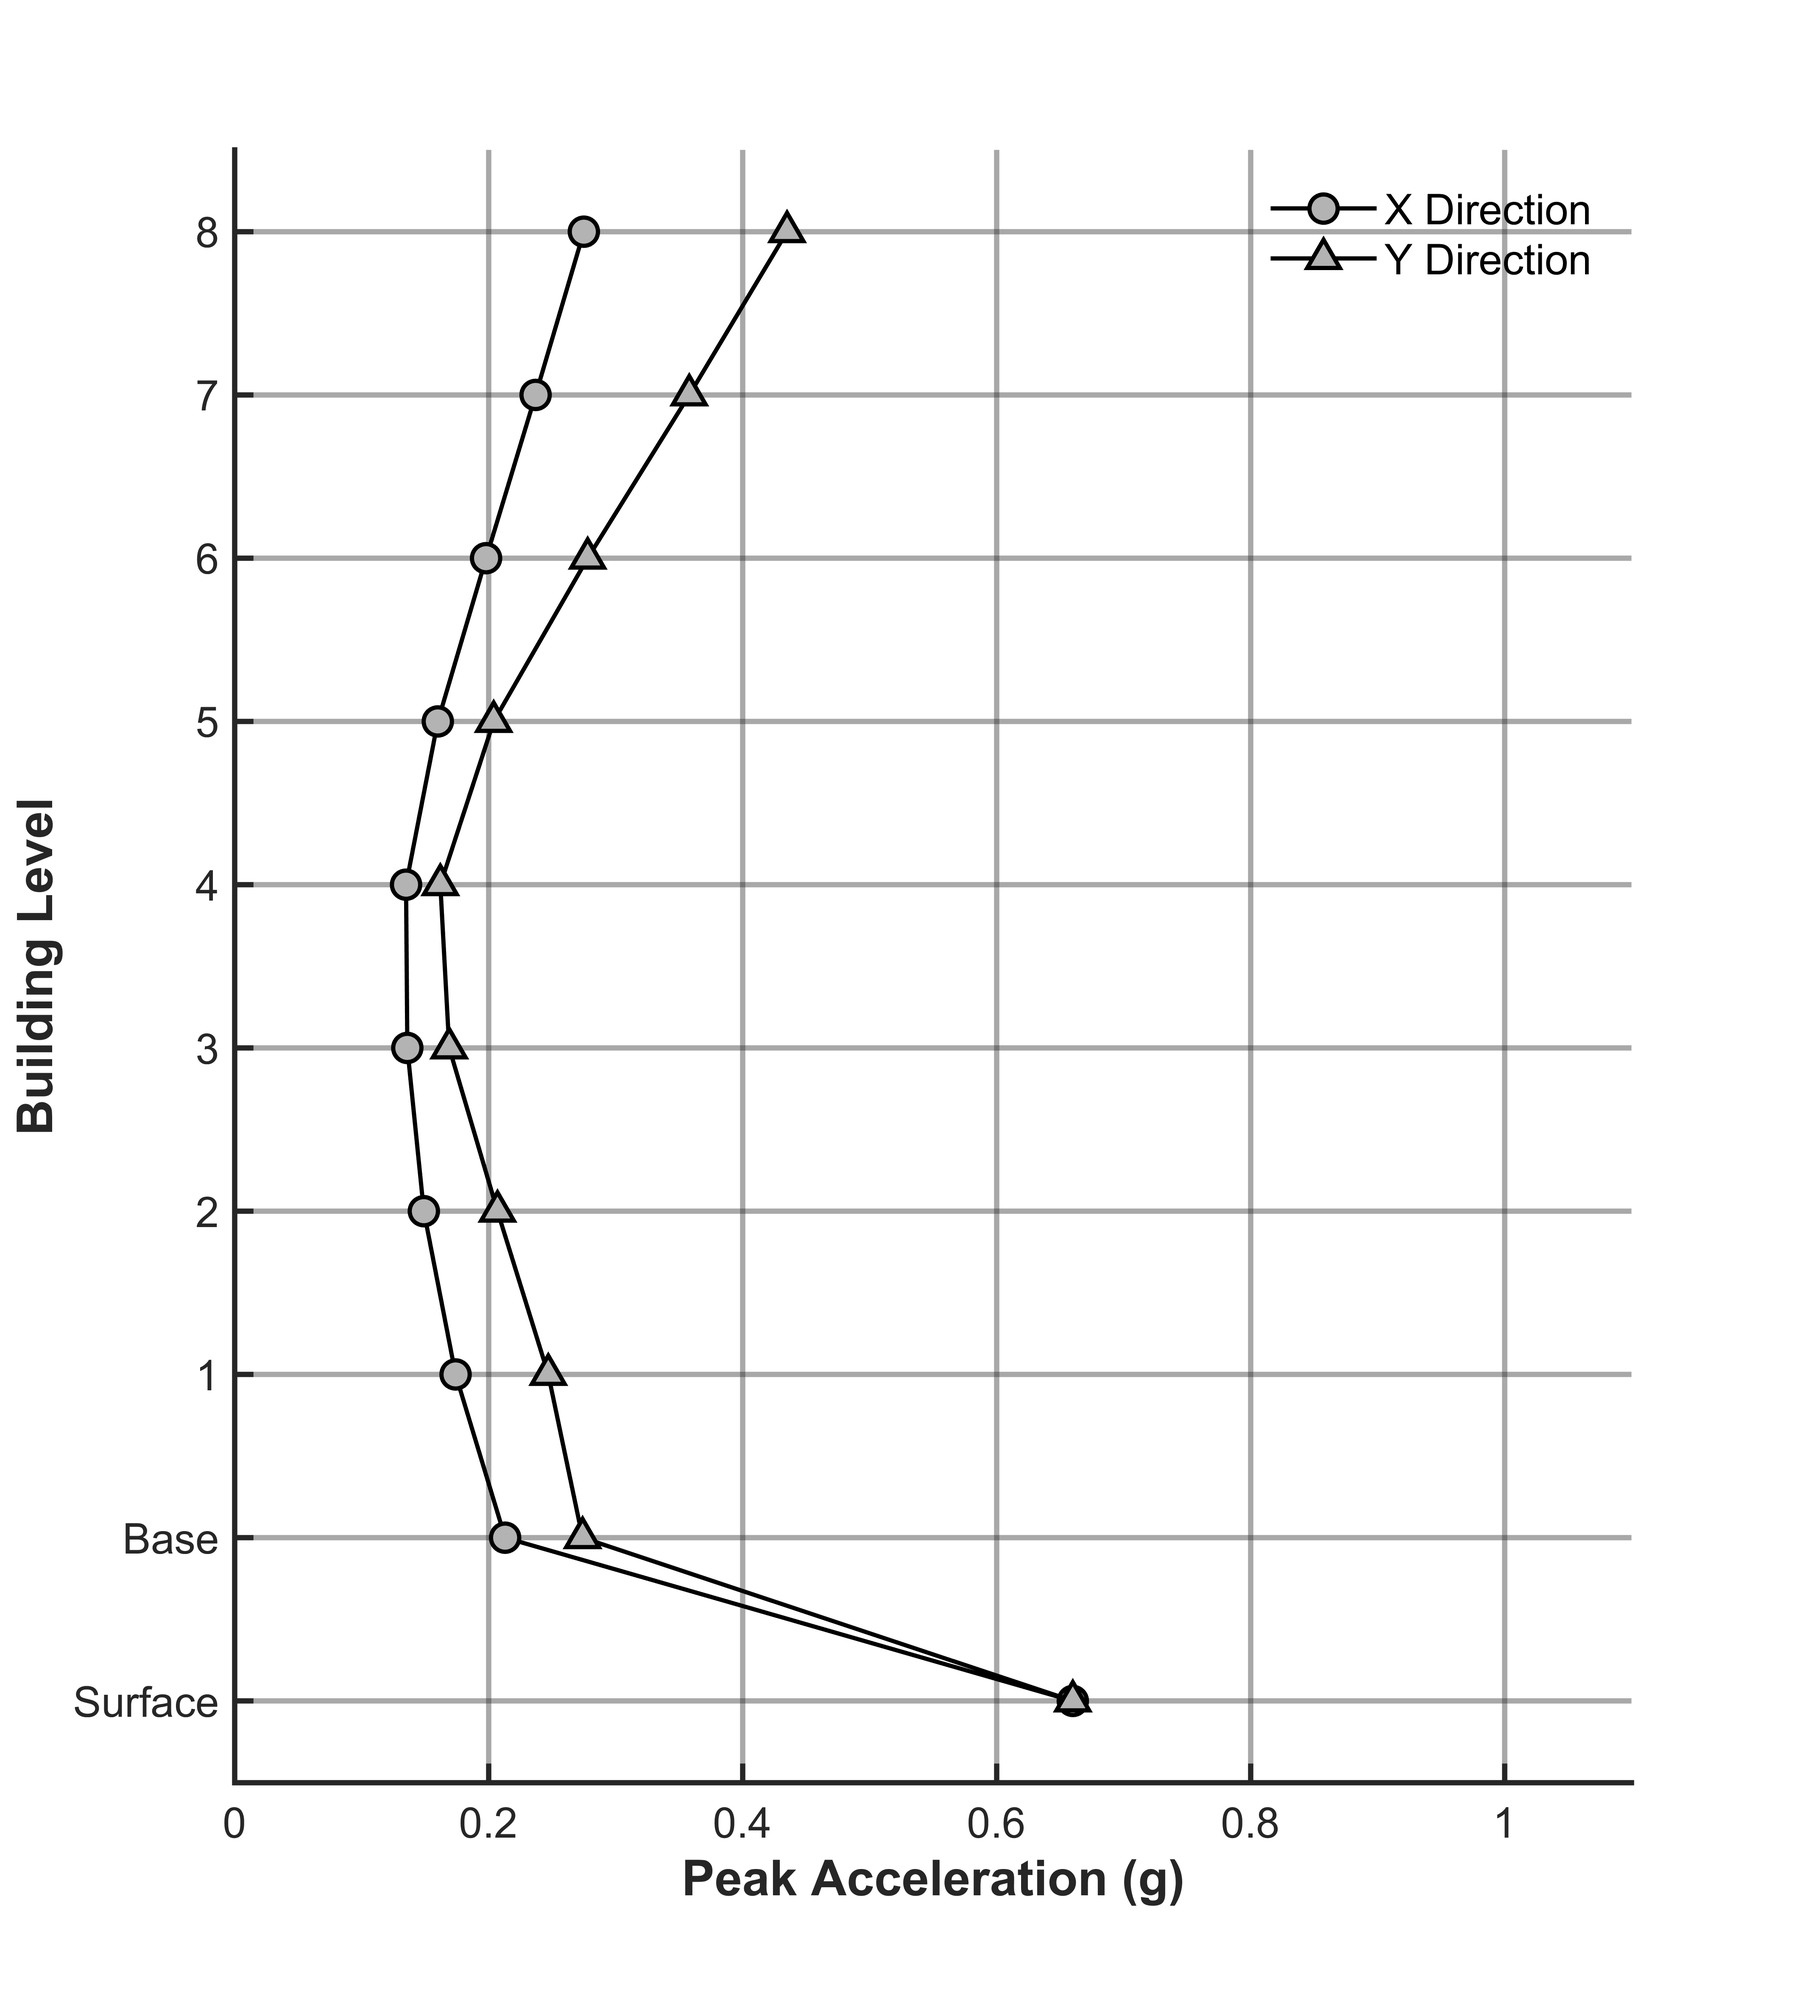
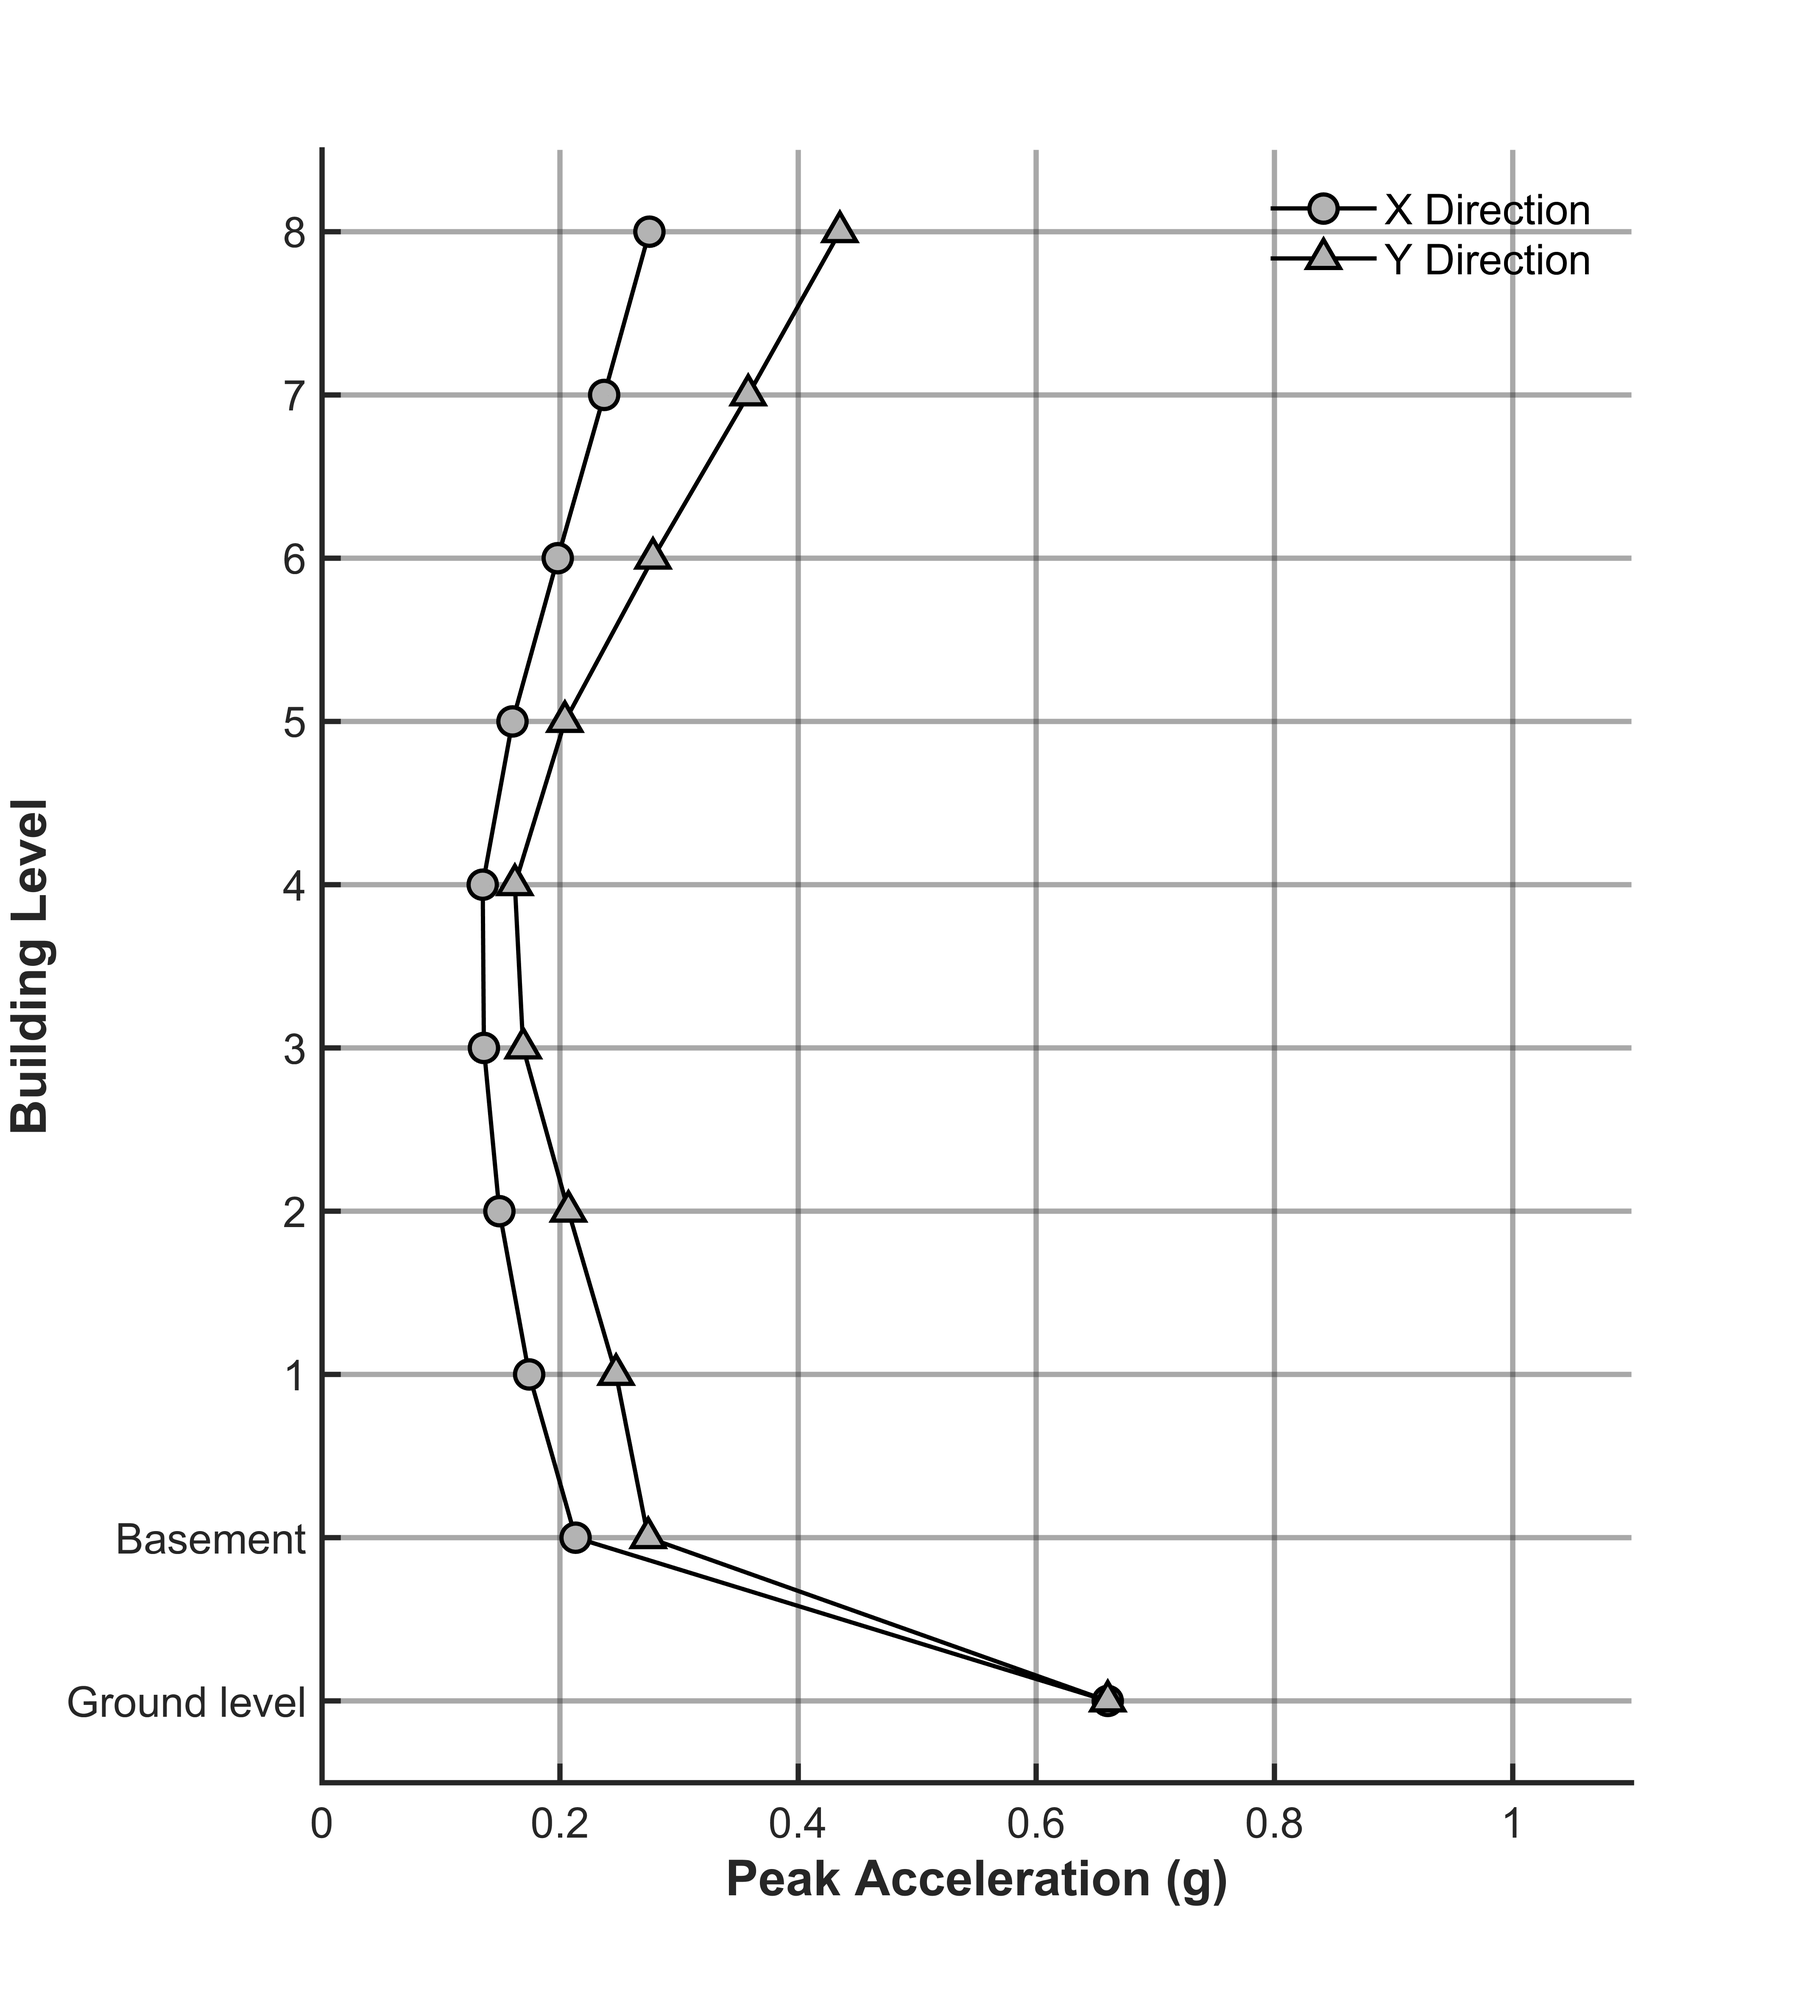
Improve formatting of outputs

diff --git a/Accelerations_TH/Drift_TH.m b/Accelerations_TH/Drift_TH.m
@@ -50,7 +50,7 @@ driftYData = [NaN; NaN; load(yDriftFile)] * 100; % Y-direction (%)
 driftXData = [NaN; NaN; load(xDriftFile)] * 100; % X-direction (%)
 
 %% ================== BUILDING HEIGHT CALCULATION ========================
-levelNames = {'Basement'; 'Ground'; '1'; '2'; '3'; '4'; '5'; '6'; '7'; '8'};
+levelNames = {'Ground level';'1'; '2'; '3'; '4'; '5'; '6'; '7'; '8'};
 baseElevation = 2.5;    % Ground level height (m)
 storyHeight = 5;        % Interstory height (m)
 

diff --git a/Accelerations_TH/Accelerations_TH.m b/Accelerations_TH/Accelerations_TH.m
@@ -43,7 +43,7 @@ figure_handle = figure('Units', 'centimeters', 'Position', [0 0 18 20],...
     'PaperPositionMode', 'auto');
 
 % Generate acceleration profiles
-level_labels = {'Surface'; 'Base'; '1'; '2'; '3'; '4'; '5'; '6'; '7'; '8'};
+level_labels = {'Ground level'; 'Basement'; '1'; '2'; '3'; '4'; '5'; '6'; '7'; '8'};
 num_levels = length(level_labels);
 
 hold on;
